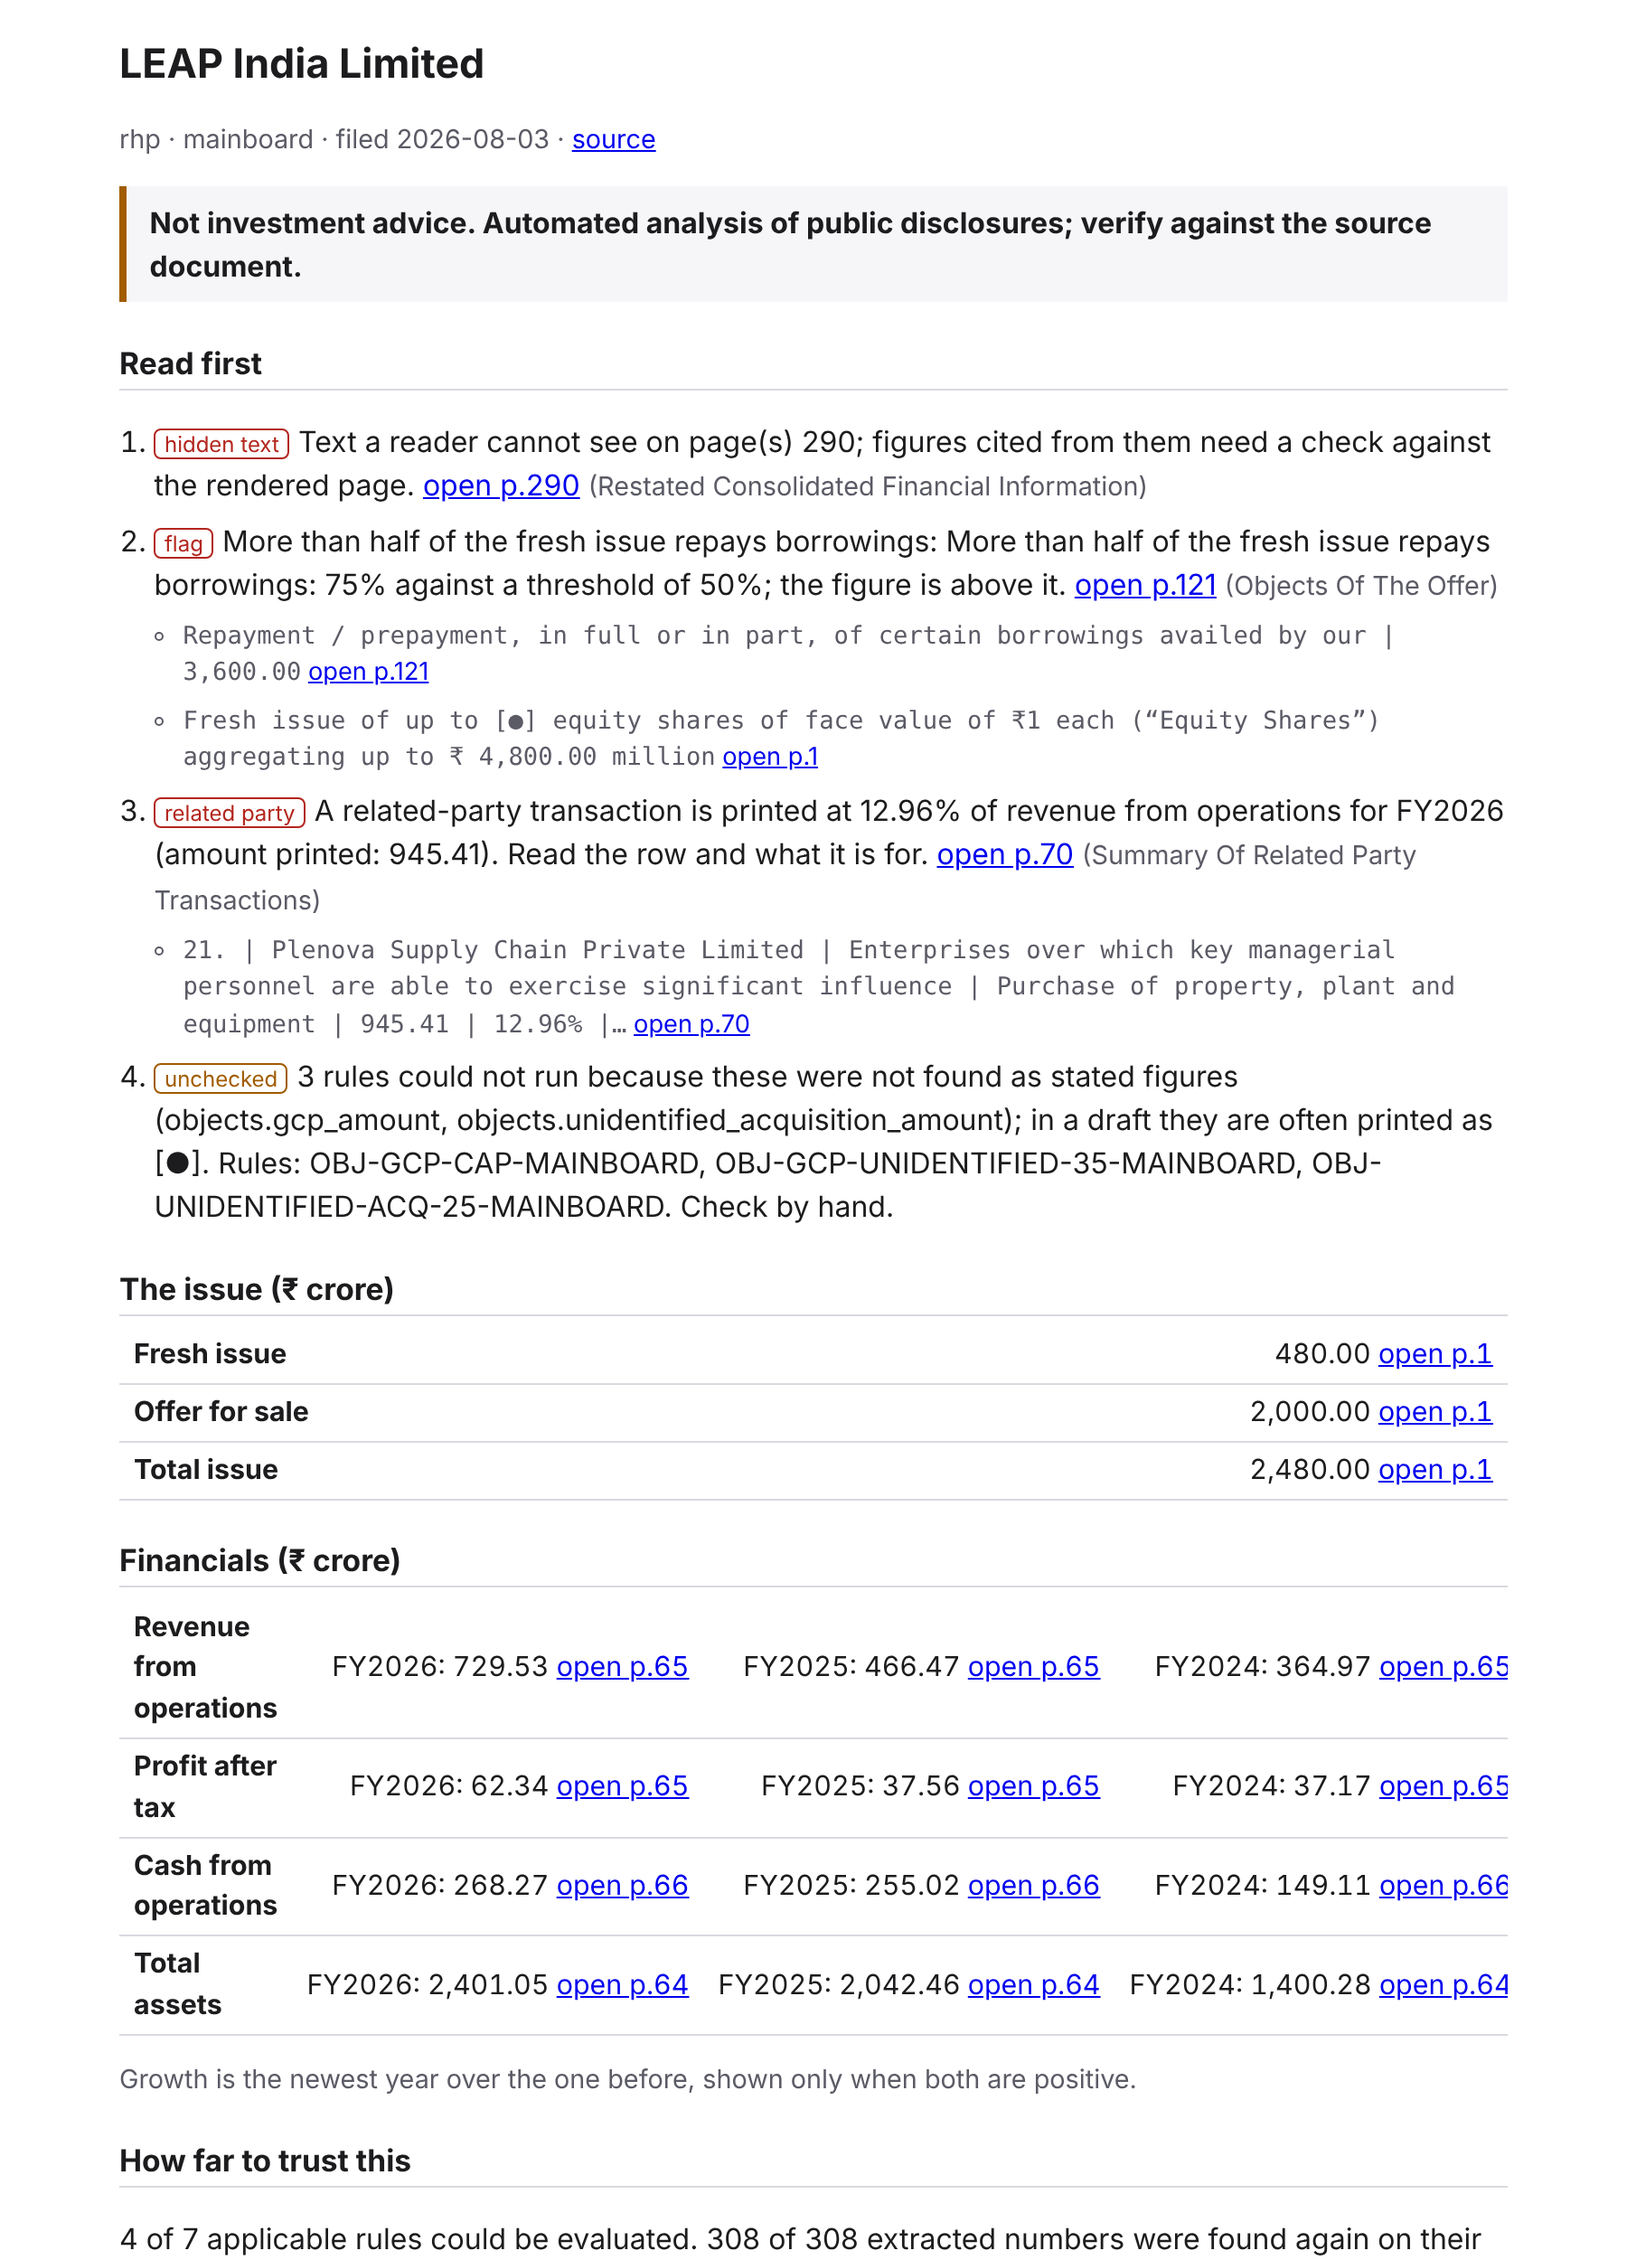
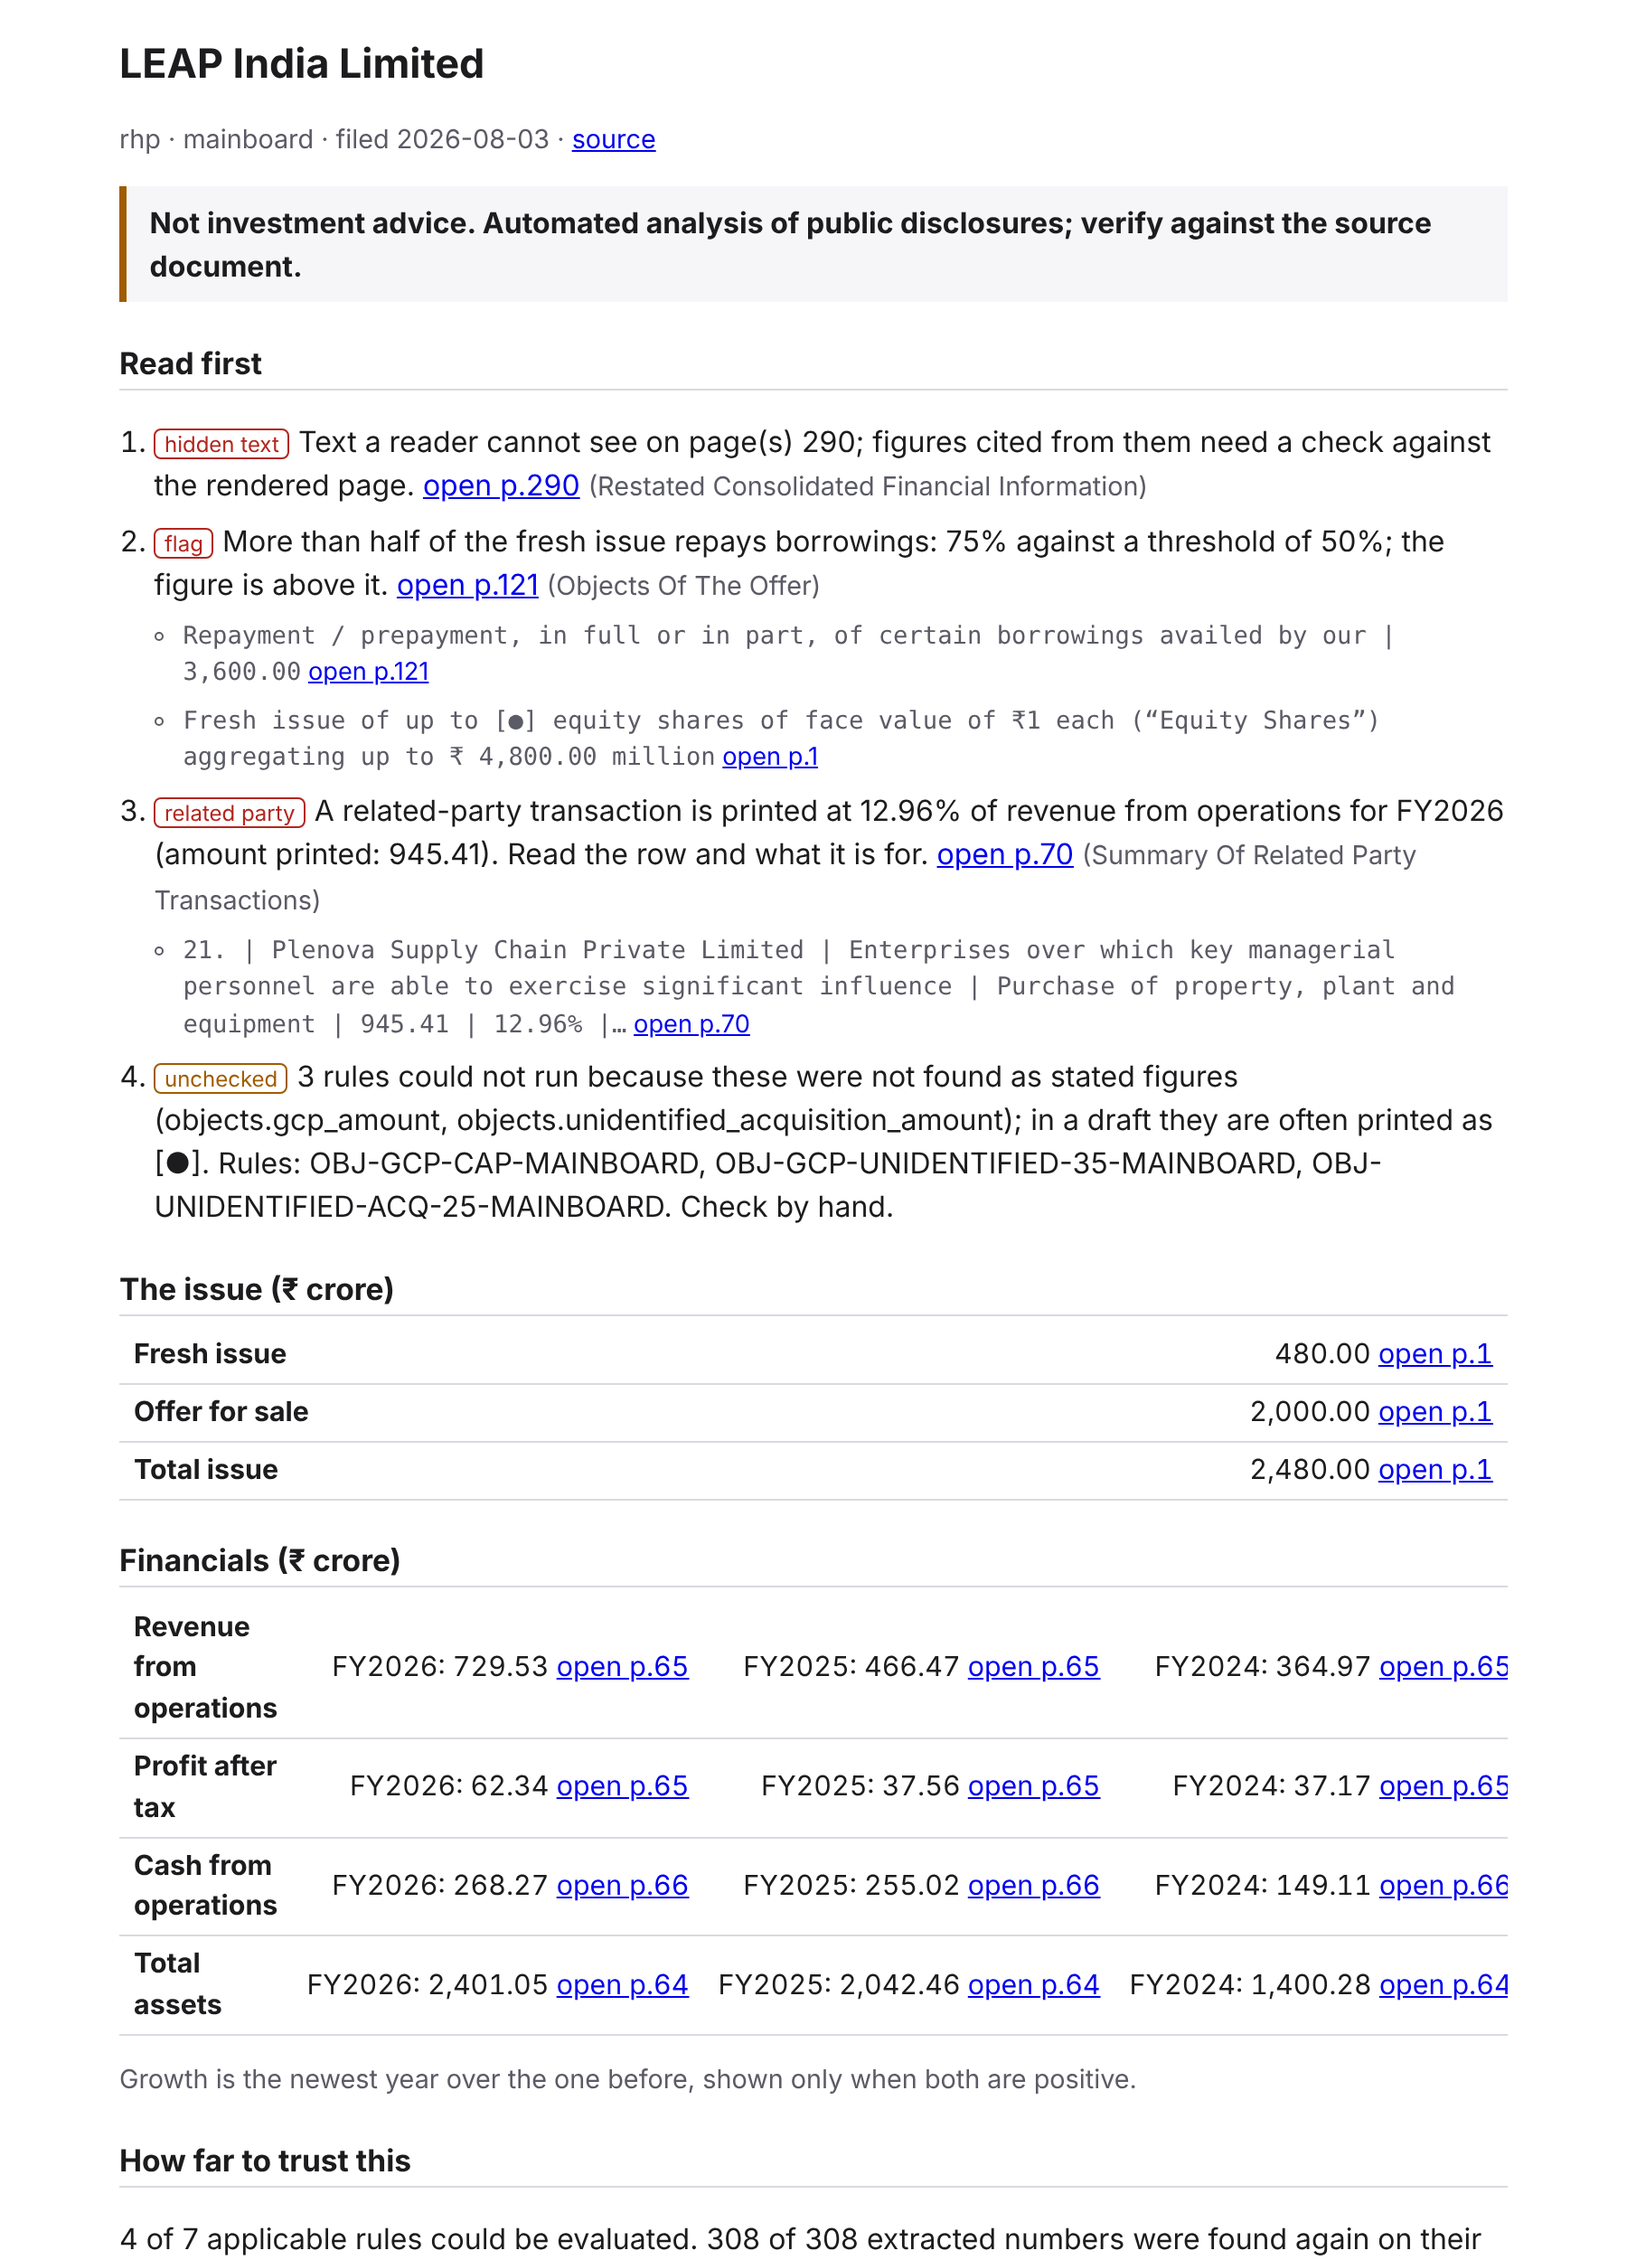
Brief: do not repeat the rule name in a flag; web app shows the product name; README shows the reader brief tab

Changed region(s): [[0.5911, 0.2184, 0.9022, 0.2808], [0.0933, 0.2496, 0.56, 0.2808]]

diff --git a/frontend/src/components/layout/AppShell.tsx b/frontend/src/components/layout/AppShell.tsx
@@ -35,8 +35,8 @@ export function AppShell({ title, children }: { title: string; children: ReactNo
       </a>
       <aside className="sidebar" data-open={open} aria-label="Primary">
         <div className="brand">
-          <strong>IPO Due Diligence</strong>
-          <span>Main-board eligibility screening</span>
+          <strong>IPO Engine</strong>
+          <span>Offer documents, read and screened</span>
         </div>
         <nav className="nav" onClick={() => setOpen(false)}>
           {NAV.map((n) => (

diff --git a/src/ipo_engine/brief.py b/src/ipo_engine/brief.py
@@ -179,6 +179,11 @@ def _conflicts(report: AnalysisReport) -> list[Item]:
     return items
 
 
+def _flag_text(name: str, explanation: str) -> str:
+    """Rule name, then what was found; many explanations already open with the name."""
+    return explanation if explanation.startswith(name) else f"{name}: {explanation}"
+
+
 def _span(pages: list[int]) -> str:
     return f"p.{pages[0]}" if len(pages) == 1 else f"pp.{pages[0]}-{pages[-1]}"
 
@@ -253,7 +258,7 @@ def build_brief(
             Item(
                 _SEVERITY_RANK.get(fl.severity, 3),
                 "flag",
-                f"{fl.rule_name}: {fl.explanation}",
+                _flag_text(fl.rule_name, fl.explanation),
                 page,
                 tuple((c.pdf_page, _clip(c.span)) for c in fl.citations),
             )

diff --git a/tests/test_brief.py b/tests/test_brief.py
@@ -251,3 +251,9 @@ def test_the_home_page_links_brief_and_full_report() -> None:
     calm = build_brief(_report(), _entry("Calm Ltd"))
     html = triage_html([("brief_demo.html", calm)], {"brief_demo.html": "demo.html"})
     assert 'href="brief_demo.html"' in html and 'href="demo.html"' in html
+
+
+def test_a_flag_whose_explanation_opens_with_the_rule_name_is_not_said_twice() -> None:
+    fl = _flag("high", 3, name="Rule").model_copy(update={"explanation": "Rule: 75% against 50%"})
+    (item,) = build_brief(_report(flags=[fl]), _entry()).read_first
+    assert item.text == "Rule: 75% against 50%"

diff --git a/README.md b/README.md
@@ -73,14 +73,14 @@ model, no cloud service and no API key.**
 
 ### The reader
 
-The brief for one filing (Lenskart's RHP). Each item names its page and section and shows the table
+The brief for one filing (LEAP India's RHP). Each item names its page and section and shows the table
 rows behind it. A figure the tables disagree on is listed to check, not shown.
 
 <img src="docs/images/reader-brief.png" alt="One-page brief for a filing" width="760">
 
-The triage table ranks every filing by what needs reading first.
+The home page ranks every filing by what needs reading first and links each brief and full report.
 
-<img src="docs/images/reader-triage.png" alt="Triage table across filings" width="900">
+<img src="docs/images/reader-triage.png" alt="Home page: filings ranked by what to read first" width="900">
 
 The full report for a filing, with every number linked to its page.
 
@@ -88,7 +88,13 @@ The full report for a filing, with every number linked to its page.
 
 ### The screening app
 
-*Taken from the app processing a real public DRHP (Vardaan Biotech Limited, filed with SEBI).*
+The **Reader brief** tab on a document: the reader run on the upload, every item with its page
+(click a page number to see the page). Shown on LEAP India's RHP.
+
+<img src="docs/images/app-reader-brief.png" alt="Reader brief tab in the web app" width="900">
+
+*The six below are from the app processing a real public DRHP (Vardaan Biotech Limited, filed with
+SEBI); they predate the rename, so the sidebar shows the earlier product name.*
 
 <table>
 <tr>
